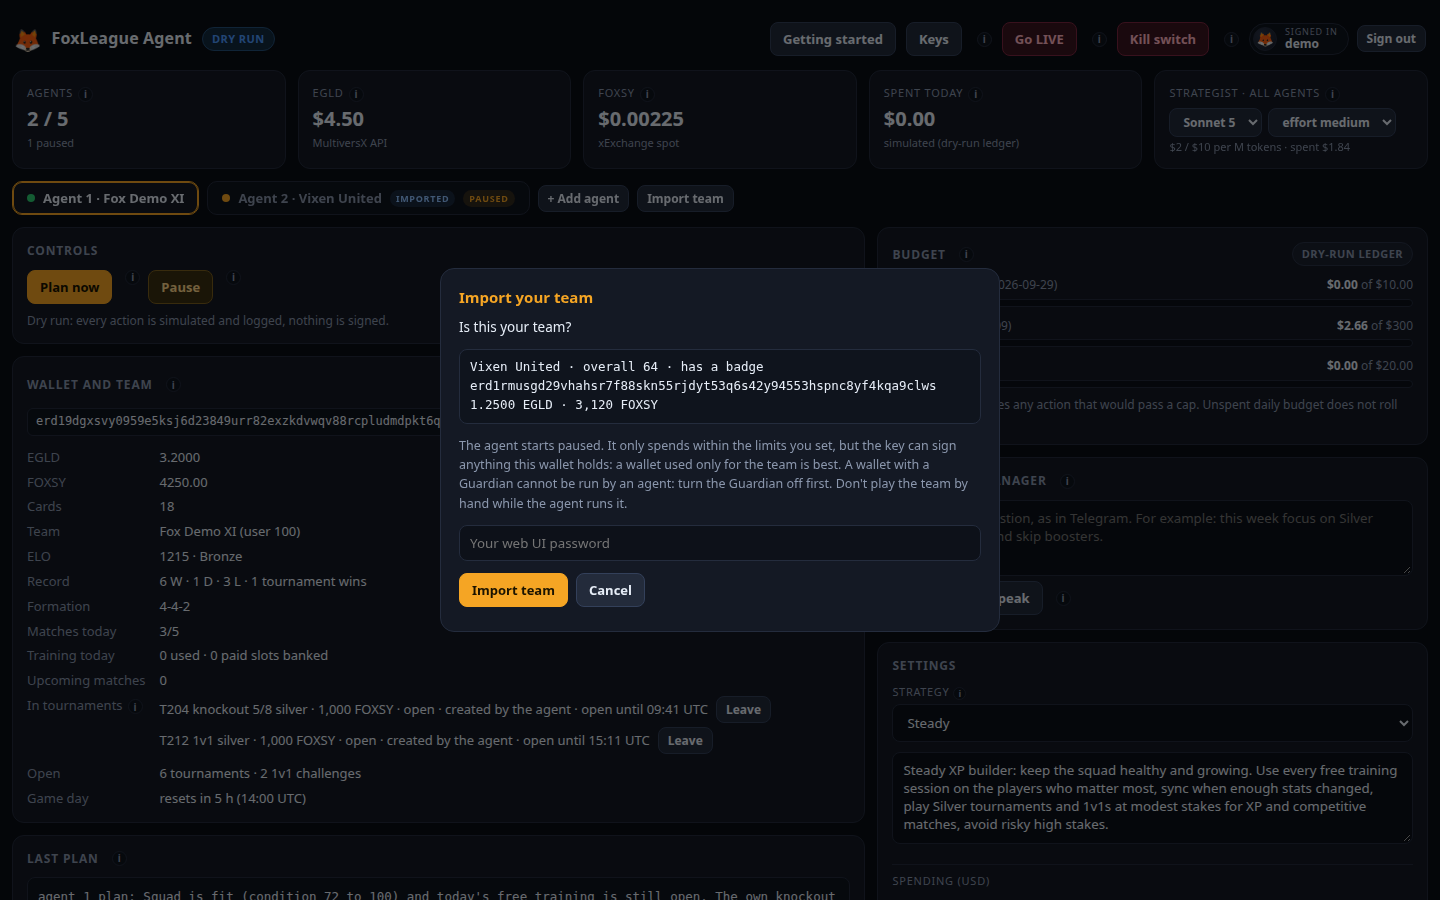
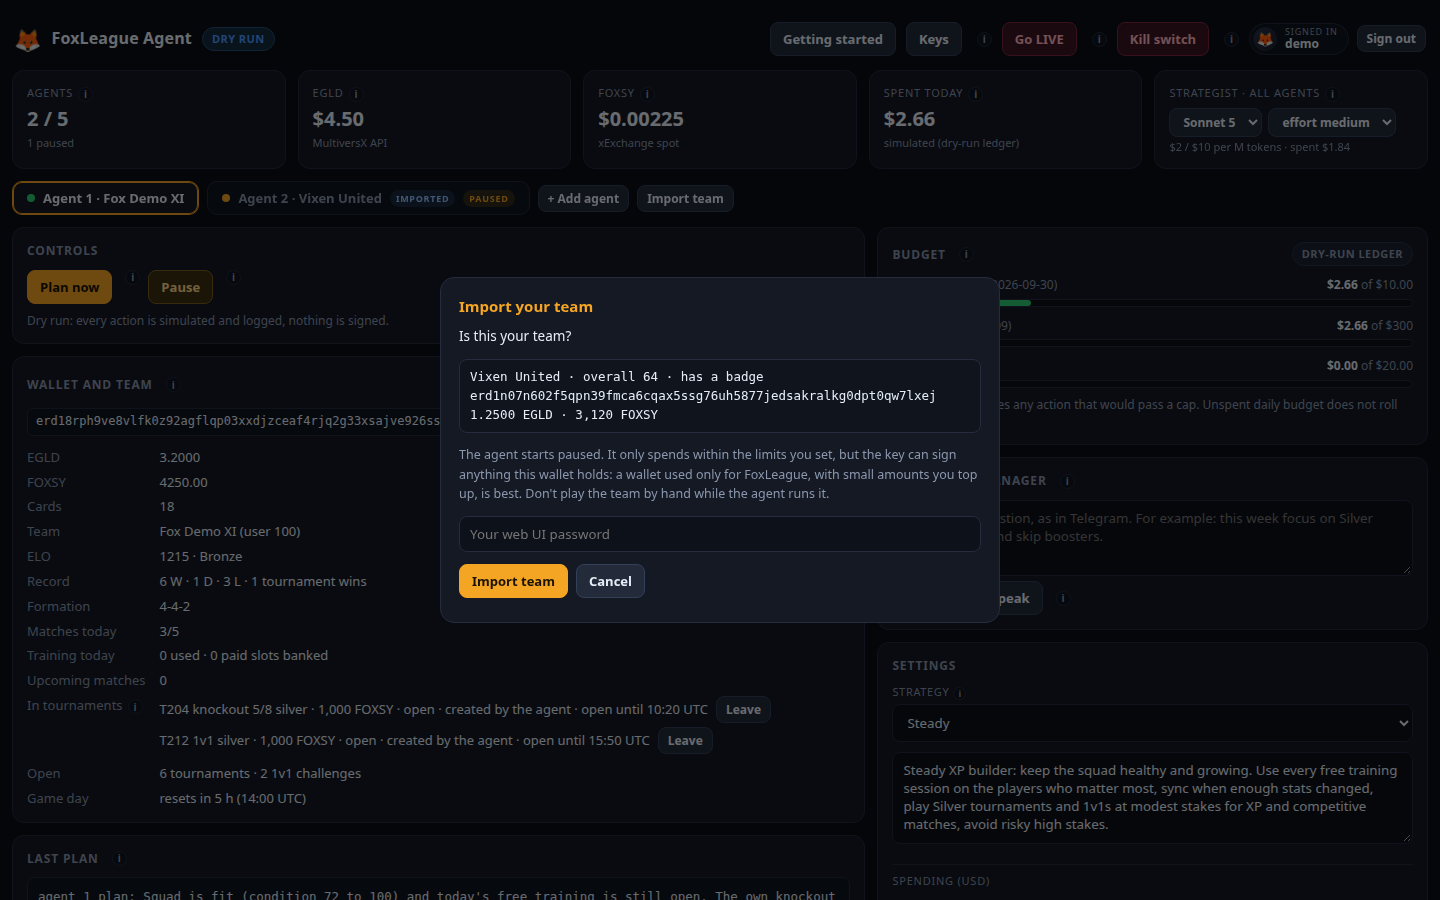
Room by effort, a Guardian check at import, a wallet only for the game
Strategist: the room for an answer grows with the effort, thinking
included. A plan gets 16,000 tokens at low and medium, 32,000 at high,
48,000 at xhigh and 64,000 at max; the chat and questions grow the same
way from 8,000 and 4,000. Every call streams and has a deadline for the
whole answer (a minute plus 50 tokens a second). It is only a ceiling:
the tokens used are what is paid for. The nginx template waits 900 s, so
a long chat answer is not cut off at the proxy.

Import team: the check reads the wallet's Guardian from the gateway and
refuses a wallet with its Guardian on, because nothing an agent signs
for it would go through.

Manual and dialogs: the suggestion is a fresh wallet made only for
FoxLeague, without a Guardian, with small amounts topped up daily,
weekly or as it suits; a personal wallet is not recommended, nor turning
its Guardian off just for the game. Point 3 of the keys is the CEX
top-up, with Binance as the example.

diff --git a/src/strategist/strategist.ts b/src/strategist/strategist.ts
@@ -177,12 +177,24 @@ export function renderPlanRequest(p: PlanInput): string {
 }
 
 /**
- * The most a plan may write, thinking included: at the highest efforts the thinking alone has filled 16,000
- * tokens and cut a plan off (nothing runs from a cut-off plan). Only the tokens used are paid for.
+ * Room for one answer, thinking included. The higher the effort, the longer the model thinks before it
+ * writes: at xhigh the thinking alone once filled 16,000 tokens and cut a plan off, and nothing runs from a
+ * cut-off plan. So the room grows with the effort. It is only a ceiling: the tokens used are what is paid for.
  */
-const PLAN_MAX_TOKENS = 32_000
-/** The whole plan answer must arrive within this time; past it the call fails and the next tick plans again. */
-const PLAN_DEADLINE_MS = 10 * 60_000
+const ROOM_TIMES: Record<Effort, number> = { low: 1, medium: 1, high: 2, xhigh: 3, max: 4 }
+const PLAN_TOKENS = 16_000
+const CHAT_TOKENS = 8_000
+const ASK_TOKENS = 4_000
+
+/** The most one answer may write at an effort: a plan gets 16,000 tokens at low and medium, 64,000 at max. */
+export function roomFor(effort: Effort, base: number): number {
+  return base * ROOM_TIMES[effort]
+}
+
+/** How long a whole answer may take before the call is given up: a minute to begin plus 50 tokens a second. */
+export function deadlineMs(maxTokens: number): number {
+  return 60_000 + maxTokens * 20
+}
 
 export class Strategist {
   private client: Anthropic
@@ -209,13 +221,13 @@ export class Strategist {
   }
 
   /**
-   * One request to the model. A streamed one is read to its end before anything is used: a plan at a high
-   * effort can take minutes, longer than one plain request may wait, and the deadline covers the whole answer.
+   * One request to the model, streamed and read to its end before anything is used: an answer at a high
+   * effort can take minutes, longer than one plain request may wait. The deadline covers the whole answer.
    */
-  private async create(params: Omit<Anthropic.Beta.MessageCreateParamsNonStreaming, 'model'>, streamed = false): Promise<Anthropic.Beta.BetaMessage> {
+  private async create(params: Omit<Anthropic.Beta.MessageCreateParamsNonStreaming, 'model'>): Promise<Anthropic.Beta.BetaMessage> {
     const model = this.model
     const send = (body: Anthropic.Beta.MessageCreateParamsNonStreaming): Promise<Anthropic.Beta.BetaMessage> =>
-      streamed ? this.client.beta.messages.stream(body, { signal: AbortSignal.timeout(PLAN_DEADLINE_MS) }).finalMessage() : this.client.beta.messages.create(body)
+      this.client.beta.messages.stream(body, { signal: AbortSignal.timeout(deadlineMs(body.max_tokens)) }).finalMessage()
     if (!WITH_FALLBACK.has(model) || this.noFallback.has(model)) return send({ ...params, model })
     try {
       return await send({ ...params, model, betas: ['server-side-fallback-2026-07-01'], fallbacks: 'default' })
@@ -239,14 +251,14 @@ export class Strategist {
   async plan(input: PlanInput): Promise<Plan> {
     const model = this.model
     const response = await this.create({
-      max_tokens: PLAN_MAX_TOKENS,
+      max_tokens: roomFor(this.effort, PLAN_TOKENS),
       thinking: { type: 'adaptive' },
       output_config: { effort: this.effort },
       system: this.system,
       tools: TOOLS,
       tool_choice: { type: 'auto' },
       messages: [{ role: 'user', content: `${renderPlanRequest(input)}\n\nCall submit_plan now.` }],
-    }, true)
+    })
     const usage = {
       inputTokens: response.usage.input_tokens,
       outputTokens: response.usage.output_tokens,
@@ -285,7 +297,7 @@ export class Strategist {
   async discuss(input: ChatInput): Promise<ChatAnswer> {
     const model = this.model
     const response = await this.create({
-      max_tokens: 8000,
+      max_tokens: roomFor(this.effort, CHAT_TOKENS),
       thinking: { type: 'adaptive' },
       output_config: { effort: this.effort },
       system: this.system,
@@ -311,7 +323,7 @@ export class Strategist {
   async ask(snapshot: AgentSnapshot, question: string): Promise<{ answer: string; usd: number }> {
     const model = this.model
     const response = await this.create({
-      max_tokens: 4000,
+      max_tokens: roomFor(this.effort, ASK_TOKENS),
       thinking: { type: 'adaptive' },
       output_config: { effort: this.effort },
       system: this.system,

diff --git a/test/strategist.test.ts b/test/strategist.test.ts
@@ -2,7 +2,7 @@ import { test } from 'node:test'
 import assert from 'node:assert/strict'
 import Anthropic from '@anthropic-ai/sdk'
 import { Store } from '../src/store/db.ts'
-import { Strategist, strategistChoice, usd, type ChatInput } from '../src/strategist/strategist.ts'
+import { EFFORTS, Strategist, deadlineMs, roomFor, strategistChoice, usd, type ChatInput } from '../src/strategist/strategist.ts'
 import { Proposals } from '../src/strategist/proposals.ts'
 import { cleanPage } from '../src/strategist/manual.ts'
 import type { Config } from '../src/config.ts'
@@ -49,11 +49,13 @@ test('server-side fallback only for classifier models, dropped for good if the A
   ;(s as unknown as { client: unknown }).client = {
     beta: {
       messages: {
-        create: async (p: Record<string, unknown>) => {
-          calls.push(p)
-          if (refuseFallbacks && p.fallbacks) throw new Anthropic.BadRequestError(400, { error: { message: 'fallbacks is not supported' } }, 'fallbacks is not supported', new Headers())
-          return { model: p.model }
-        },
+        stream: (p: Record<string, unknown>) => ({
+          finalMessage: async () => {
+            calls.push(p)
+            if (refuseFallbacks && p.fallbacks) throw new Anthropic.BadRequestError(400, { error: { message: 'fallbacks is not supported' } }, 'fallbacks is not supported', new Headers())
+            return { model: p.model }
+          },
+        }),
       },
     },
   }
@@ -91,7 +93,7 @@ test('manager chat: questions get an answer, advice a proposal for known agents 
   let content: unknown[] = []
   const requests: { messages: { content: string }[]; tools: { name: string }[] }[] = []
   ;(s as unknown as { client: unknown }).client = {
-    beta: { messages: { create: async (p: never) => (requests.push(p), { model: 'claude-sonnet-5', stop_reason: 'end_turn', content, usage: { input_tokens: 0, output_tokens: 0, iterations: null } }) } },
+    beta: { messages: { stream: (p: never) => ({ finalMessage: async () => (requests.push(p), { model: 'claude-sonnet-5', stop_reason: 'end_turn', content, usage: { input_tokens: 0, output_tokens: 0, iterations: null } }) }) } },
   }
   const input: ChatInput = {
     message: 'this week Silver tournaments only',
@@ -154,7 +156,7 @@ test('manual pages: title heading, no imports or source comments, callouts as qu
   )
 })
 
-test('a plan streams with room for 32,000 tokens, and a cut-off one runs nothing', async () => {
+test('room grows with the effort: a plan streams with 16,000 to 64,000 tokens, and a cut-off one runs nothing', async () => {
   const s = new Strategist('test-key', 'claude-sonnet-5', 'xhigh')
   const sent: { max_tokens: number; output_config: { effort: string }; stream?: unknown }[] = []
   let answer: Record<string, unknown> = {}
@@ -174,8 +176,18 @@ test('a plan streams with room for 32,000 tokens, and a cut-off one runs nothing
 
   answer = { stop_reason: 'tool_use', content: [{ type: 'tool_use', id: 't', name: 'submit_plan', input: { summary: 'train', actions: [{ action: { type: 'sync' }, reason: 'dirty cards' }] } }] }
   const plan = await s.plan(input)
-  assert.equal(sent[0]!.max_tokens, 32_000)
+  assert.equal(sent[0]!.max_tokens, 48_000)
   assert.equal(sent[0]!.output_config.effort, 'xhigh')
+  const rooms: number[] = []
+  for (const effort of EFFORTS) {
+    s.configure('claude-fable-5-1', effort)
+    await s.plan(input)
+    rooms.push(sent.at(-1)!.max_tokens)
+  }
+  assert.deepEqual(rooms, [16_000, 16_000, 32_000, 48_000, 64_000], 'low, medium, high, xhigh, max')
+  assert.deepEqual([roomFor('max', 8_000), roomFor('max', 4_000), roomFor('medium', 8_000)], [32_000, 16_000, 8_000], 'chat and questions grow the same way')
+  assert.ok(64_000 <= 128_000, 'under the 128,000 tokens a model can write')
+  assert.deepEqual([deadlineMs(16_000), deadlineMs(64_000)], [380_000, 1_340_000], 'a minute to begin plus 50 tokens a second')
   assert.equal(plan.summary, 'train')
   assert.equal(plan.actions.length, 1)
 

diff --git a/src/web/dashboard.html b/src/web/dashboard.html
@@ -332,12 +332,12 @@ form.settings label .info{width:13px;height:13px;font-size:9px;margin-left:4px}
     <div data-kind="keystore" hidden><label class="dlglabel" for="impKsFile">The keystore file (.json) from the MultiversX web wallet</label><input id="impKsFile" type="file" accept=".json,application/json"><label class="dlglabel" for="impKsPw">The keystore password</label><input id="impKsPw" type="password" autocomplete="off"></div>
     <div data-kind="words" hidden><label class="dlglabel" for="impWords">Your recovery words, in order</label><textarea id="impWords" rows="3" spellcheck="false" autocomplete="off" autocapitalize="off"></textarea></div>
     <div data-kind="keystore words" hidden><label class="dlglabel" for="impAccount">Account number within the recovery words: 0 is the first (a keystore that holds one key ignores it)</label><input id="impAccount" type="number" min="0" max="999" value="0"></div>
-    <p class="dlgwarn">Nothing is stored until you check the team and confirm with your password.</p>
+    <p class="dlgwarn">Best is a wallet made only for FoxLeague, with no Guardian and only the amount you set aside for the game, not your personal wallet. A wallet with a Guardian is refused: an agent cannot sign for it. Nothing is stored until you check the team and confirm with your password.</p>
   </div>
   <div id="impStep2" hidden>
     <p>Is this your team?</p>
     <div id="impFound" class="dlgdetail"></div>
-    <p class="dlgwarn">The agent starts paused. It only spends within the limits you set, but the key can sign anything this wallet holds: a wallet used only for the team is best. A wallet with a Guardian cannot be run by an agent: turn the Guardian off first. Don't play the team by hand while the agent runs it.</p>
+    <p class="dlgwarn">The agent starts paused. It only spends within the limits you set, but the key can sign anything this wallet holds: a wallet used only for FoxLeague, with small amounts you top up, is best. Don't play the team by hand while the agent runs it.</p>
     <input id="impPw" type="password" autocomplete="current-password" placeholder="Your web UI password" aria-label="Your web UI password">
   </div>
   <div class="controls"><button class="btn go" type="submit" id="impOk">Check</button><button class="btn" type="button" id="impCancel">Cancel</button></div>
@@ -947,8 +947,8 @@ const GUIDE = [
       ['Back here, press Keys, paste it into Telegram bot token, type your password and press Save.', null, true],
       ['Still in Keys, press Link my Telegram, send the 6-digit code to your new Telegram bot, then press I sent it. From then on it talks only to you.', null, true],
     ] },
-  { id: 'binance', title: 'Binance, for automatic top-ups', need: false, done: st => st.binance,
-    intro: 'Lets the agent top up its own EGLD later. The top-ups arrive in a later version; your key waits here until then.',
+  { id: 'binance', title: 'CEX top-up, optional', need: false, done: st => st.binance,
+    intro: 'Lets the agent top up its own EGLD from an exchange (a CEX) later. The top-ups arrive in a later version; your key waits here until then. The example is Binance: a key that can only withdraw EGLD to your agent wallets.',
     steps: [
       ['Log in to Binance and open API Management.', 'https://www.binance.com/en/my/settings/api-management'],
       ['Press Create API, choose System generated, name it foxleague-agent and confirm with your 2FA.'],

diff --git a/test/import.test.ts b/test/import.test.ts
@@ -101,13 +101,17 @@ test('import: the service checks the wallet (not an agent, not its own words, a 
   ;(svc as unknown as { schedule: unknown }).schedule = () => undefined
   const teams: Record<string, { name: string; team_overall: number; badge: string | null } | null> = { [teamAddress()]: { name: 'Community XI', team_overall: 61, badge: 'x' } }
   Object.assign(svc.fox, { team: async (a: string) => teams[a] ?? null })
-  Object.assign(svc.chain, { account: async () => ({ balance: 2n * 10n ** 18n }), esdts: async () => [{ tokenIdentifier: 'FOXSY-5d5f3e', balance: 1500n * 10n ** 18n, nonce: 0 }] })
+  let guardian = true
+  Object.assign(svc.chain, { account: async () => ({ balance: 2n * 10n ** 18n }), esdts: async () => [{ tokenIdentifier: 'FOXSY-5d5f3e', balance: 1500n * 10n ** 18n, nonce: 0 }], guarded: async () => guardian })
 
   await assert.rejects(svc.previewImport({ kind: 'pem', pem: pemOf(1) }), /no FoxLeague team/)
   const own = deriveWallet(svc.cfg.mnemonic!, 1)
   await assert.rejects(svc.previewImport({ kind: 'words', words: svc.cfg.mnemonic!, account: 1 }), /this install's own recovery words/, own.address)
   await assert.rejects(svc.previewImport({ kind: 'words', words: svc.cfg.mnemonic!, account: 0 }), /already agent 1/)
 
+  // A wallet with its Guardian on is refused at the check: nothing an agent signs for it would go through.
+  await assert.rejects(svc.previewImport({ kind: 'pem', pem: pemOf() }), /has a Guardian, so an agent cannot sign for it/)
+  guardian = false
   const p = await svc.previewImport({ kind: 'pem', pem: pemOf() })
   assert.deepEqual([p.address, p.team.name, p.egld, p.foxsy], [teamAddress(), 'Community XI', '2.0000', '1500'])
   assert.doesNotMatch(JSON.stringify(p), /PRIVATE KEY/, 'the answer holds no secret')
@@ -135,7 +139,7 @@ test('import: over the web the check answers without secrets, the import needs t
   svc.ensureAgents()
   ;(svc as unknown as { schedule: unknown }).schedule = () => undefined
   Object.assign(svc.fox, { team: async () => ({ name: 'Community XI', team_overall: 61, badge: null }) })
-  Object.assign(svc.chain, { account: async () => ({ balance: 0n }), esdts: async () => [] })
+  Object.assign(svc.chain, { account: async () => ({ balance: 0n }), esdts: async () => [], guarded: async () => false })
   const pw = 'correct-horse-battery'
   const creds = { username: 'admin', passwordHash: hashPassword(pw), secretKey: 'k'.repeat(64) }
   const server = startWeb(svc, creds, 0)

diff --git a/src/service.ts b/src/service.ts
@@ -431,7 +431,9 @@ export class Service {
     }
     const team = await this.fox.team(address)
     if (!team) throw new Error('this wallet has no FoxLeague team. Register the team in the FoxLeague app first or use + Add agent for a new one')
-    const [account, esdts] = await Promise.all([this.chain.account(address), this.chain.esdts(address)])
+    const [account, esdts, guarded] = await Promise.all([this.chain.account(address), this.chain.esdts(address), this.chain.guarded(address)])
+    // Nothing an agent signs would go through: say so now, not after the import at the first transaction.
+    if (guarded) throw new Error('this wallet has a Guardian, so an agent cannot sign for it. Turn the Guardian off in your wallet first, or better, play with a wallet made only for FoxLeague')
     const foxsy = esdts.find(e => e.tokenIdentifier === MAINNET.foxsyToken)
     const now = Date.now()
     for (const [t, p] of this.pendingImports) if (p.expires < now) this.pendingImports.delete(t)

diff --git a/src/chain/gateway.ts b/src/chain/gateway.ts
@@ -81,6 +81,16 @@ export class Chain {
     return { address, nonce: d.account.nonce, balance: BigInt(d.account.balance) }
   }
 
+  /**
+   * True while the wallet's Guardian is on: the network then wants the guardian's signature next to the
+   * owner's on every transaction, and an agent holds only the owner's key. (A guardian that is set but not
+   * switched on does not count.)
+   */
+  async guarded(address: string): Promise<boolean> {
+    const d = await this.gwGet<{ guardianData?: { guarded?: boolean } }>(`/address/${address}/guardian-data`)
+    return d.guardianData?.guarded === true
+  }
+
   /** Every ESDT and NFT the wallet holds, in one call (keys like "FXLP-6f28e5-0177"). */
   async esdts(address: string): Promise<EsdtHolding[]> {
     const d = await this.gwGet<{ esdts: Record<string, { tokenIdentifier: string; balance: string; nonce?: number }> }>(

diff --git a/site/src/content/docs/use/import-team.md b/site/src/content/docs/use/import-team.md
@@ -38,24 +38,34 @@ else.
 
 The import refuses:
 
+- a wallet with a Guardian switched on (see [Which wallet to give an agent](#which-wallet-to-give-an-agent));
 - a wallet with no FoxLeague team (register the team in the FoxLeague app first or use **+ Add agent** for a new
   one);
 - a wallet that is already one of your agents;
 - a wallet made from this install's own recovery words (use **+ Add agent** for those).
 
+## Which wallet to give an agent
+
+**Our suggestion: a fresh wallet made only for FoxLeague.** No Guardian, no history, no other assets: only the
+team and the amount you set aside for the game. Keep small amounts in it and top it up daily, weekly or whenever
+it suits you. **+ Add agent** makes exactly such a wallet for a new team.
+
+We do not recommend giving an agent your personal wallet, the one with your history and your other assets:
+
+- **The key can sign anything the wallet holds.** The agent only swaps EGLD to FOXSY and pays for the game,
+  within the limits you set, but the wallet is only as safe as the file that holds its key.
+- **A wallet with a Guardian is refused.** A MultiversX Guardian asks for a second signature on every
+  transaction, the one you confirm with your 2FA code. The agent holds only the wallet's key, so nothing it
+  signs would go through. The **Check** step sees the Guardian and stops there.
+- **Turning the Guardian off just for FoxLeague is not a good trade.** It would leave everything else in that
+  wallet with one protection less.
+
+If the team you already play lives in your personal wallet, first move your savings and other assets to another
+wallet, so that only the team and your game money stay. Then turn the Guardian off in the wallet's Guardian
+settings (xPortal or the MultiversX web wallet) and import.
+
 ## Before you import
 
-- **Turn the Guardian off.** A wallet with a MultiversX Guardian needs a second signature on every transaction,
-  the one you confirm with your 2FA code. The agent holds only the wallet's key, so the network would refuse
-  everything it sends and the team would not play. Turn the Guardian off in your wallet's Guardian settings
-  (xPortal or the MultiversX web wallet) before you import.
-- **Keep only game money in the wallet.** The key can sign anything this wallet holds, and without a Guardian
-  the key alone moves the funds. The agent only swaps EGLD to FOXSY and pays for the game, within the limits you
-  set, but the wallet is only as safe as the file that holds its key. The best wallet for an agent holds the
-  team and the amount you are ready to spend on FoxLeague, nothing else: move savings and other tokens to
-  another wallet first, keep small amounts here and top it up from time to time.
-- **Starting a new team?** Use **+ Add agent** instead: it makes a new wallet only for the game, with no
-  Guardian and nothing else in it.
 - **Don't play the team by hand while the agent runs it.** To play yourself, pause the agent first and resume it
   when you are done.
 - **Set its limits before you resume it.** A new agent starts with the default daily cap, monthly budget and gas

diff --git a/INSTALL.md b/INSTALL.md
@@ -13,7 +13,7 @@ Everything runs on your own computer. Your wallet words and your keys never leav
 - About 5 EGLD to start: about 2.5 buys the 5,000 FOXSY registration, 1 stays in the wallet as the gas reserve
   (Settings: EGLD gas reserve), the rest pays for the first games.
 - An Anthropic API key: the AI that plans. Without it your agents only watch. The steps are below; about 5 minutes.
-- Optional: a Telegram bot for notifications and commands on your phone, and a Binance API key for automatic
+- Optional: a Telegram bot for notifications and commands on your phone, and a CEX (Binance) API key for automatic
   top-ups (a later feature).
 
 ## Install
@@ -36,7 +36,7 @@ The installer walks you through seven steps and explains each one:
 | 1. Node.js | Uses the Node.js on your computer if it is recent enough, otherwise downloads a private copy into the `foxleague-agent` folder (checksum verified). |
 | 2. Wallet | Creates a new wallet and shows its recovery words once. Write them down on paper. |
 | 3. Dashboard login | You choose a username, a password (at least 12 characters) and a port (default 8870). |
-| 4. Keys | Anthropic, Telegram and Binance keys. Every key can be skipped and added later in the dashboard. |
+| 4. Keys | The AI key, Telegram and the CEX top-up key. Every key can be skipped and added later in the dashboard. |
 | 5. Settings | Agents start in dry run. You choose whether this computer may sign real transactions once you press Go LIVE. |
 | 6. PEM files | Writes `pem/agent1.pem`, so you can log into FoxLeague as your agent's team and watch it play. |
 | 7. Background service | Starts the agent in the background and keeps it running after a restart. |
@@ -89,7 +89,9 @@ Add or change them any time in the dashboard: **Keys** in the header (your passw
 5. Link your chat: the installer shows a 6-digit code, or press **Link my Telegram** in Keys. Send the code to
    your new Telegram bot from your own account, then press **I sent it**. It then talks only to you.
 
-**3. Binance (optional): automatic EGLD top-ups, coming in a later version**
+**3. CEX top-up (optional): automatic EGLD top-ups from an exchange, coming in a later version**
+
+The example is Binance: an API key that can only withdraw EGLD to your agent wallets.
 
 1. Log in to Binance and open [API Management](https://www.binance.com/en/my/settings/api-management).
 2. Press Create API, choose System generated, name it foxleague-agent and confirm with your 2FA.

diff --git a/site/src/content/docs/help/faq.md b/site/src/content/docs/help/faq.md
@@ -39,7 +39,14 @@ words, its own settings and its own budget. Your agents never meet in a 1v1 and 
 
 Yes. **Import team** gives an agent your existing FoxLeague team, from its PEM file, keystore file or recovery
 words, and it carries on from where the team is ([Import your team](/use/import-team/)). A wallet with a Guardian
-has to have it turned off first, and it is best to keep only game money in that wallet.
+is refused: an agent cannot sign for it.
+
+### Which wallet should an agent use?
+
+A fresh wallet made only for FoxLeague, without a Guardian, holding only the amount you set aside for the game.
+Keep small amounts in it and top it up daily, weekly or whenever it suits you. **+ Add agent** makes such a wallet.
+We do not recommend giving an agent your personal wallet with your history and other assets, or turning the
+Guardian off there just for FoxLeague ([Which wallet to give an agent](/use/import-team/#which-wallet-to-give-an-agent)).
 
 ### Which AI model should I pick?
 

diff --git a/site/src/content/docs/play/safety.md b/site/src/content/docs/play/safety.md
@@ -27,6 +27,14 @@ it. Text written by other players (team names, tournament titles) reaches it onl
 - Raising a limit, releasing the kill switch and changing a key all ask for your password again.
 - Your recovery words and keys stay on your computer. The dashboard is not on the internet.
 
+## A wallet only for the game
+
+Each agent plays from its own wallet, and the agent's key file can sign for everything that wallet holds. So
+keep it a wallet made only for FoxLeague: no Guardian, no other assets, only the amount you set aside for the
+game, in small amounts that you top up daily, weekly or whenever it suits you. **+ Add agent** creates such a
+wallet. Your personal wallet, with its history and other assets, is better kept away from any automation
+([Which wallet to give an agent](/use/import-team/#which-wallet-to-give-an-agent)).
+
 ## Fair play
 
 FoxLeague's Fair Play rules allow automation on your own wallets for the actions the app offers, and prohibit its

diff --git a/site/src/content/docs/help/costs.md b/site/src/content/docs/help/costs.md
@@ -14,8 +14,8 @@ The agent itself is free. Three things cost money, and you control each one:
 ## To start
 
 About **5 EGLD**: 2.5 buys the 5,000 FOXSY registration, 1 stays in the wallet as the gas reserve, the rest plays
-the first games. After that, top up as the agent plays, by hand for now (automatic top-ups from Binance come in a
-later version).
+the first games. After that, top up as the agent plays, by hand for now (automatic top-ups from an exchange, with Binance as
+the first one, come in a later version).
 
 ## What you get back
 
